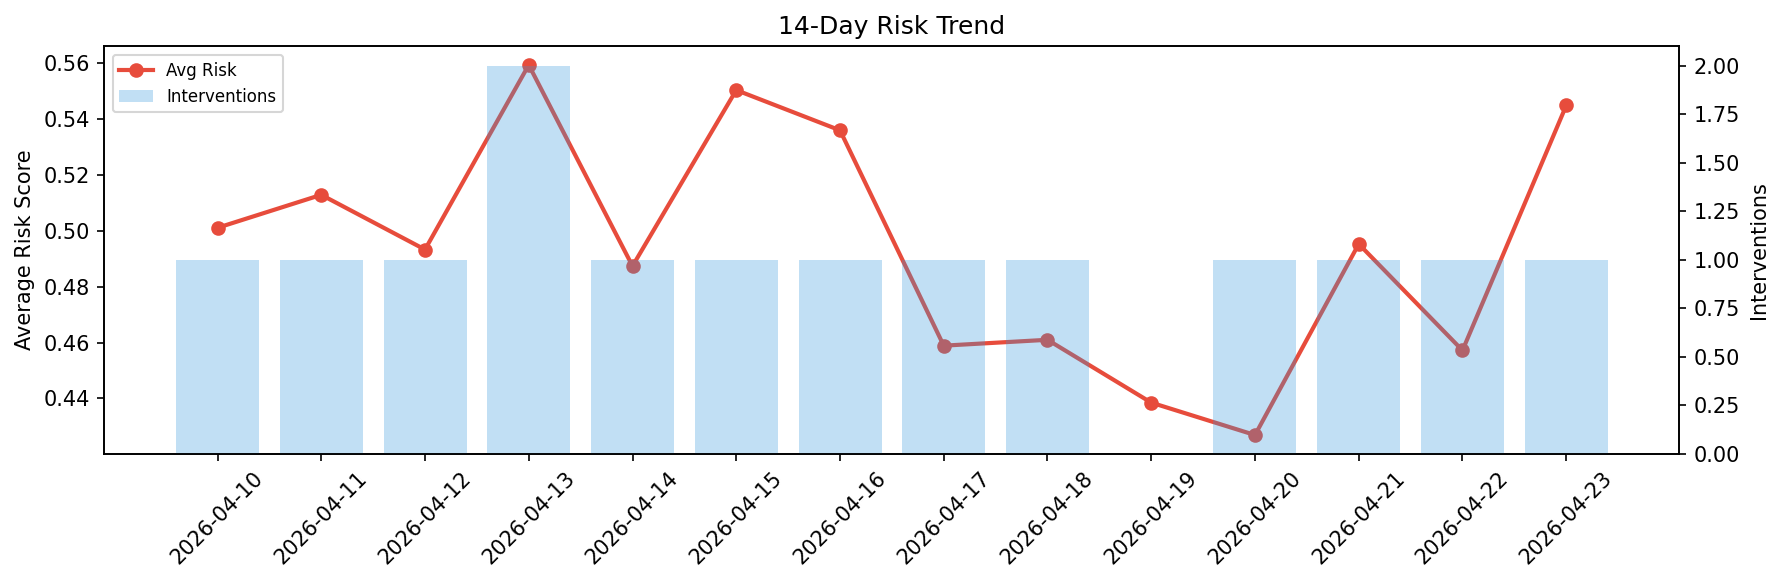
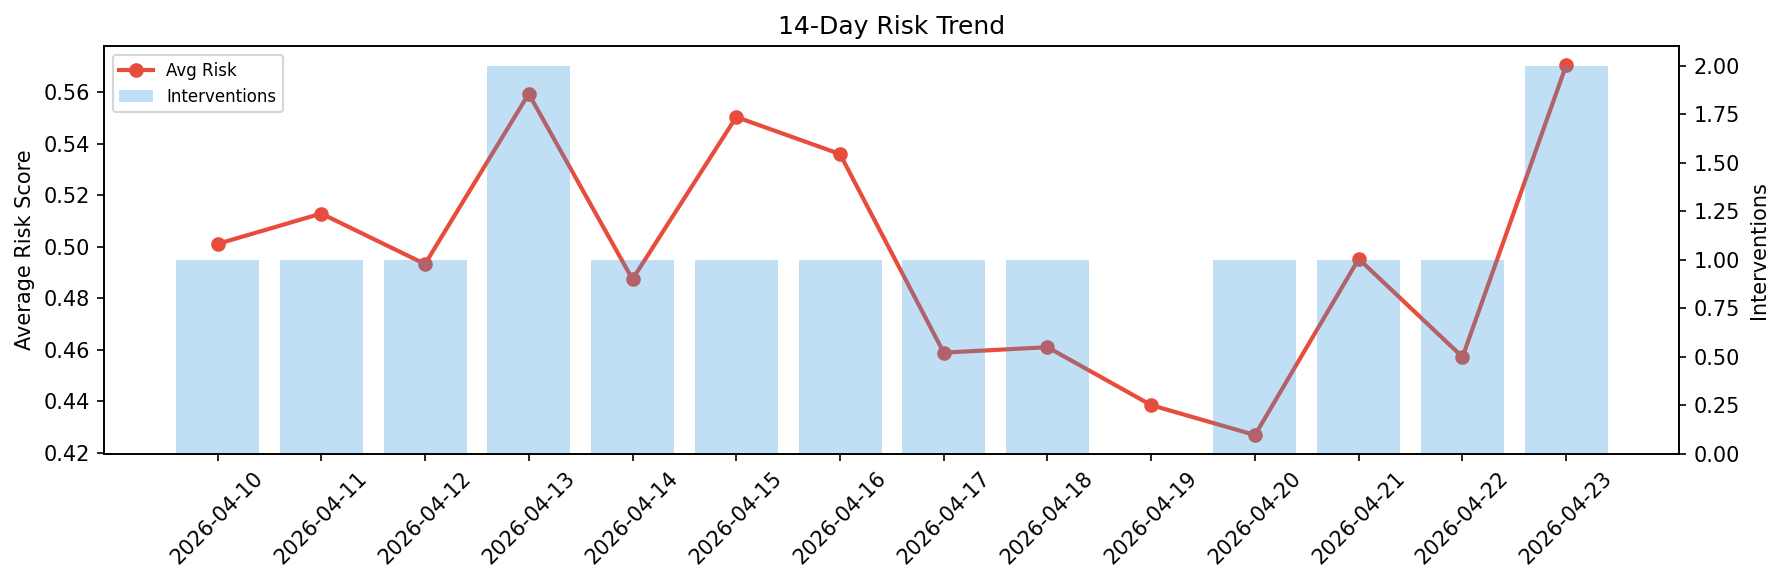
agent-improvement: daily cycle 2026-04-23T16:08

diff --git a/logs/2026-04-23.md b/logs/2026-04-23.md
@@ -1,6 +1,6 @@
 # Agent Improvement Report — 2026-04-23
 
-**Cycle ID:** `cfbd09b8` | **Avg Risk:** 0.5449 | **Interventions:** 1/4
+**Cycle ID:** `b43af3a8` | **Avg Risk:** 0.5706 | **Interventions:** 2/4
 
 ![Dashboard](2026-04-23_dashboard.png)
 
@@ -10,18 +10,18 @@
 
 | Domain | Risk Score | Decision | Alerts |
 |--------|-----------|----------|--------|
-| code_review | 0.4828 | monitor | complexity |
-| incident_response | 0.8756 | intervene | severity, blast_radius, mttr |
-| data_pipeline | 0.4027 | monitor | volume_anomaly |
-| deployment | 0.4186 | monitor | none |
+| code_review | 0.3559 | monitor | none |
+| incident_response | 0.7067 | intervene | mttr |
+| data_pipeline | 0.6553 | intervene | freshness, schema_drift |
+| deployment | 0.5646 | monitor | none |
 
 ## Delta vs Yesterday
 
 | Domain | Today | Yesterday | Change |
 |--------|-------|-----------|--------|
-| code_review | 0.4828 | 0.6207 | 📉 -22.2% |
-| incident_response | 0.8756 | 0.4591 | 📈 90.7% |
-| data_pipeline | 0.4027 | 0.3047 | 📈 32.2% |
-| deployment | 0.4186 | 0.4444 | 📉 -5.8% |
+| code_review | 0.3559 | 0.6207 | 📉 -42.7% |
+| incident_response | 0.7067 | 0.4591 | 📈 53.9% |
+| data_pipeline | 0.6553 | 0.3047 | 📈 115.1% |
+| deployment | 0.5646 | 0.4444 | 📈 27.0% |
 
-**Refinement:** `{'adjustment': 'maintain', 'trend': 'improving', 'window': 4}`
+**Refinement:** `{'adjustment': 'tighten_thresholds', 'trend': 'degrading', 'window': 4}`
